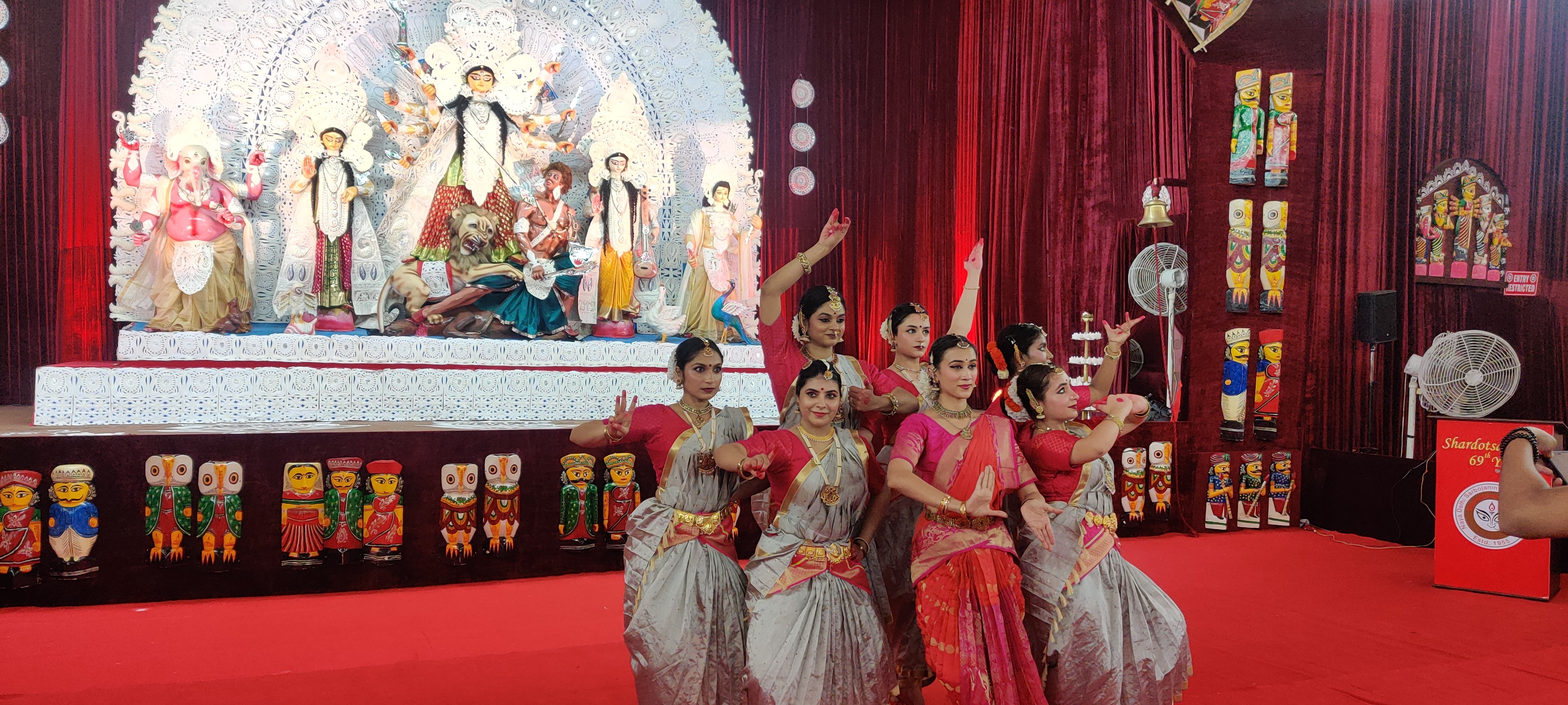
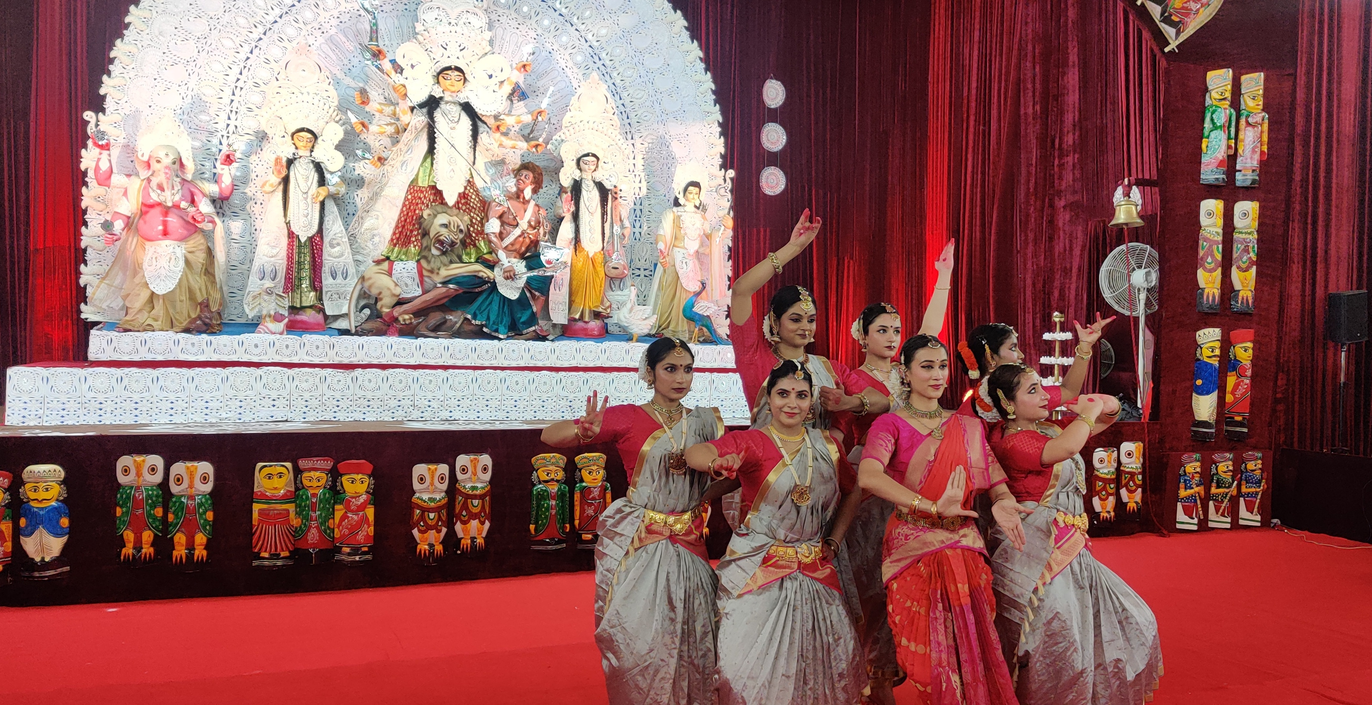
spotlight 1 - change to group photo with sdg

diff --git a/public/index.html b/public/index.html
@@ -45,9 +45,9 @@
     <div class="content">
         
         <p class="major"><h2>May 17 - Save The Date!</h2>
-<strong>Shreyasi Gopinath Dance Academy</strong> is pleased to announce the <strong>2025 edition of Saadhana</strong>, our annual festival.
+<strong>Shreyasi Gopinath Dance Academy</strong> is pleased to announce the <strong>2025 edition of Saadhana,</strong> our annual festival.
 </p>
-        <p>Join us at the <strong>CD Deshmukh Auditorium, India International Centre</strong>, New Delhi on <strong>17th May, 2025 at 6pm</strong>!<br>
+        <p>Join us at <strong>CD Deshmukh Auditorium, India International Centre</strong>, New Delhi on <strong>17th May, 2025 at 6pm</strong>!<br>
 
 <ul class="actions">
     <li><a href="#join-us-at-saadhana-2025" class="button primary">Join us at Saadhana 2025</a></li>
@@ -73,7 +73,7 @@
         </ul>
     </div>
     <div class="image">
-        <img src="images/spotlight1-sgda-winter-2024-group-photo.jpg" alt="" />
+        <img src="images/spotlight1-dsc7362-group-photo-on-stage-with-sdg.JPG" alt="" />
     </div>
 </section>
 	
